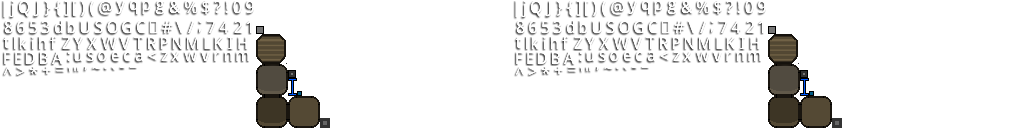
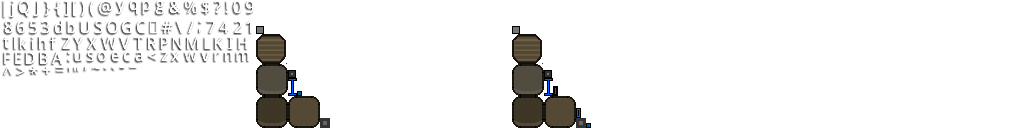
Fix scrollPane skin

Changed region(s): [[0.5, 0.0, 0.8438, 1.0]]

diff --git a/Omega/src/com/team/omega/core/screen/GameServerSelectionScreen.java b/Omega/src/com/team/omega/core/screen/GameServerSelectionScreen.java
@@ -37,25 +37,26 @@ public class GameServerSelectionScreen extends BaseScreen
 
 	serverList = new List(new String[] {"test", "test2", "test3", "test4" , "test2", "test3", "test4" , "test2", "test3", "test4" , "test2", "test3", "test4" , "test2", "test3", "test4"}, skin);
 	
-	scrollPane = new ScrollPane(serverList);
+	scrollPane = new ScrollPane(serverList, skin);
+	scrollPane.setFadeScrollBars(false);
 	
 	backButton = new TextButton(LocalizationHandler.getInstance().getDialog("common.choice.back"), skin);
 	selectButton = new TextButton(LocalizationHandler.getInstance().getDialog("gameserver.selection.select"), skin);
 	
 	Panel _panel = new Panel(skin, "black_alpha");
-	_panel.debug();
-	_panel.defaults().width(100f);
-	_panel.add(serverName);
+	//_panel.debug();
+	_panel.pad(20f);
+	_panel.defaults().center();
+	_panel.add(serverName).width(250);
 	_panel.add(serverState);
 	_panel.add(serverPing);
 	
 	_panel.row();
 	_panel.add(scrollPane).width(400).height(200).colspan(3);
 	
-	_panel.row();
-	_panel.add(backButton);
-	_panel.add();
-	_panel.add(selectButton);
+	_panel.row().colspan(2).padTop(20f);
+	_panel.add(backButton).left().padLeft(50f);
+	_panel.add(selectButton).right().padRight(50f);
 	
 	layout.setBackground(background.getDrawable());
 	layout.add(_panel);
